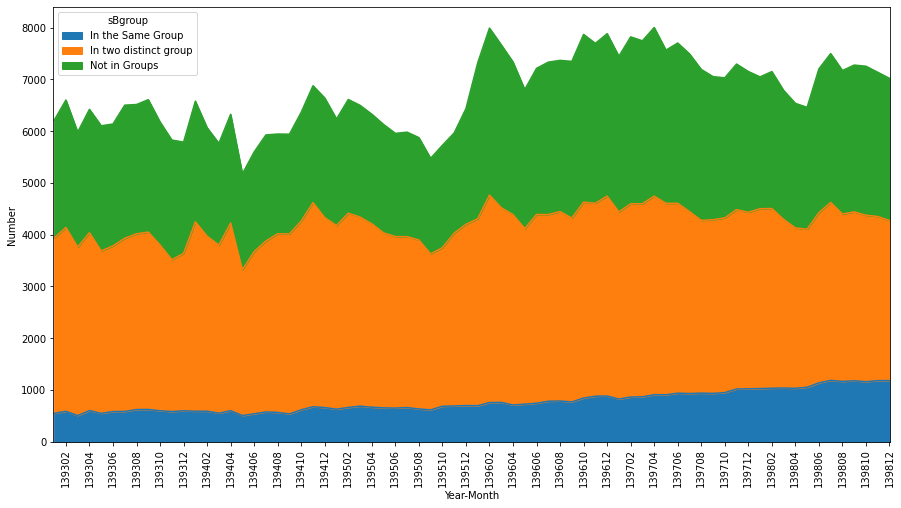
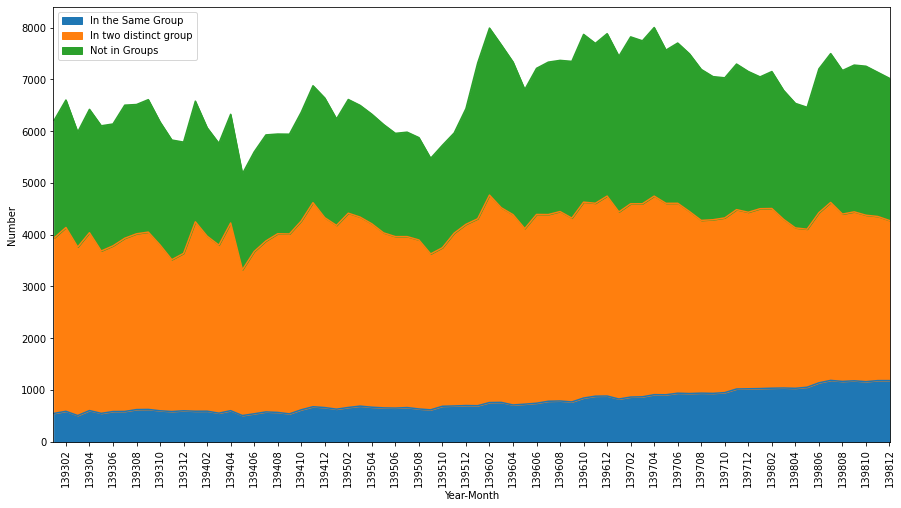
v1

Changed region(s): [[0.0622, 0.0295, 0.2175, 0.1476]]

diff --git a/Codes/Python - Connected Stocks/Summary_stats.py b/Codes/Python - Connected Stocks/Summary_stats.py
@@ -450,7 +450,7 @@ plt.margins(x=0.001)
 plt.xticks(ticks=tickvalues[::-2], labels=labels[::-2], rotation="vertical")
 plt.ylabel("Number")
 plt.xlabel("Year-Month")
-# plt.legend(["In the Same Group", "In two distinct group", "Not in Groups"])
+plt.legend(title = "")
 # plt.title("Number of unique pair in each month")
 plt.savefig(pathResult + "idMonth.eps", bbox_inches="tight")
 plt.savefig(pathResult + "idMonth.png", bbox_inches="tight")
